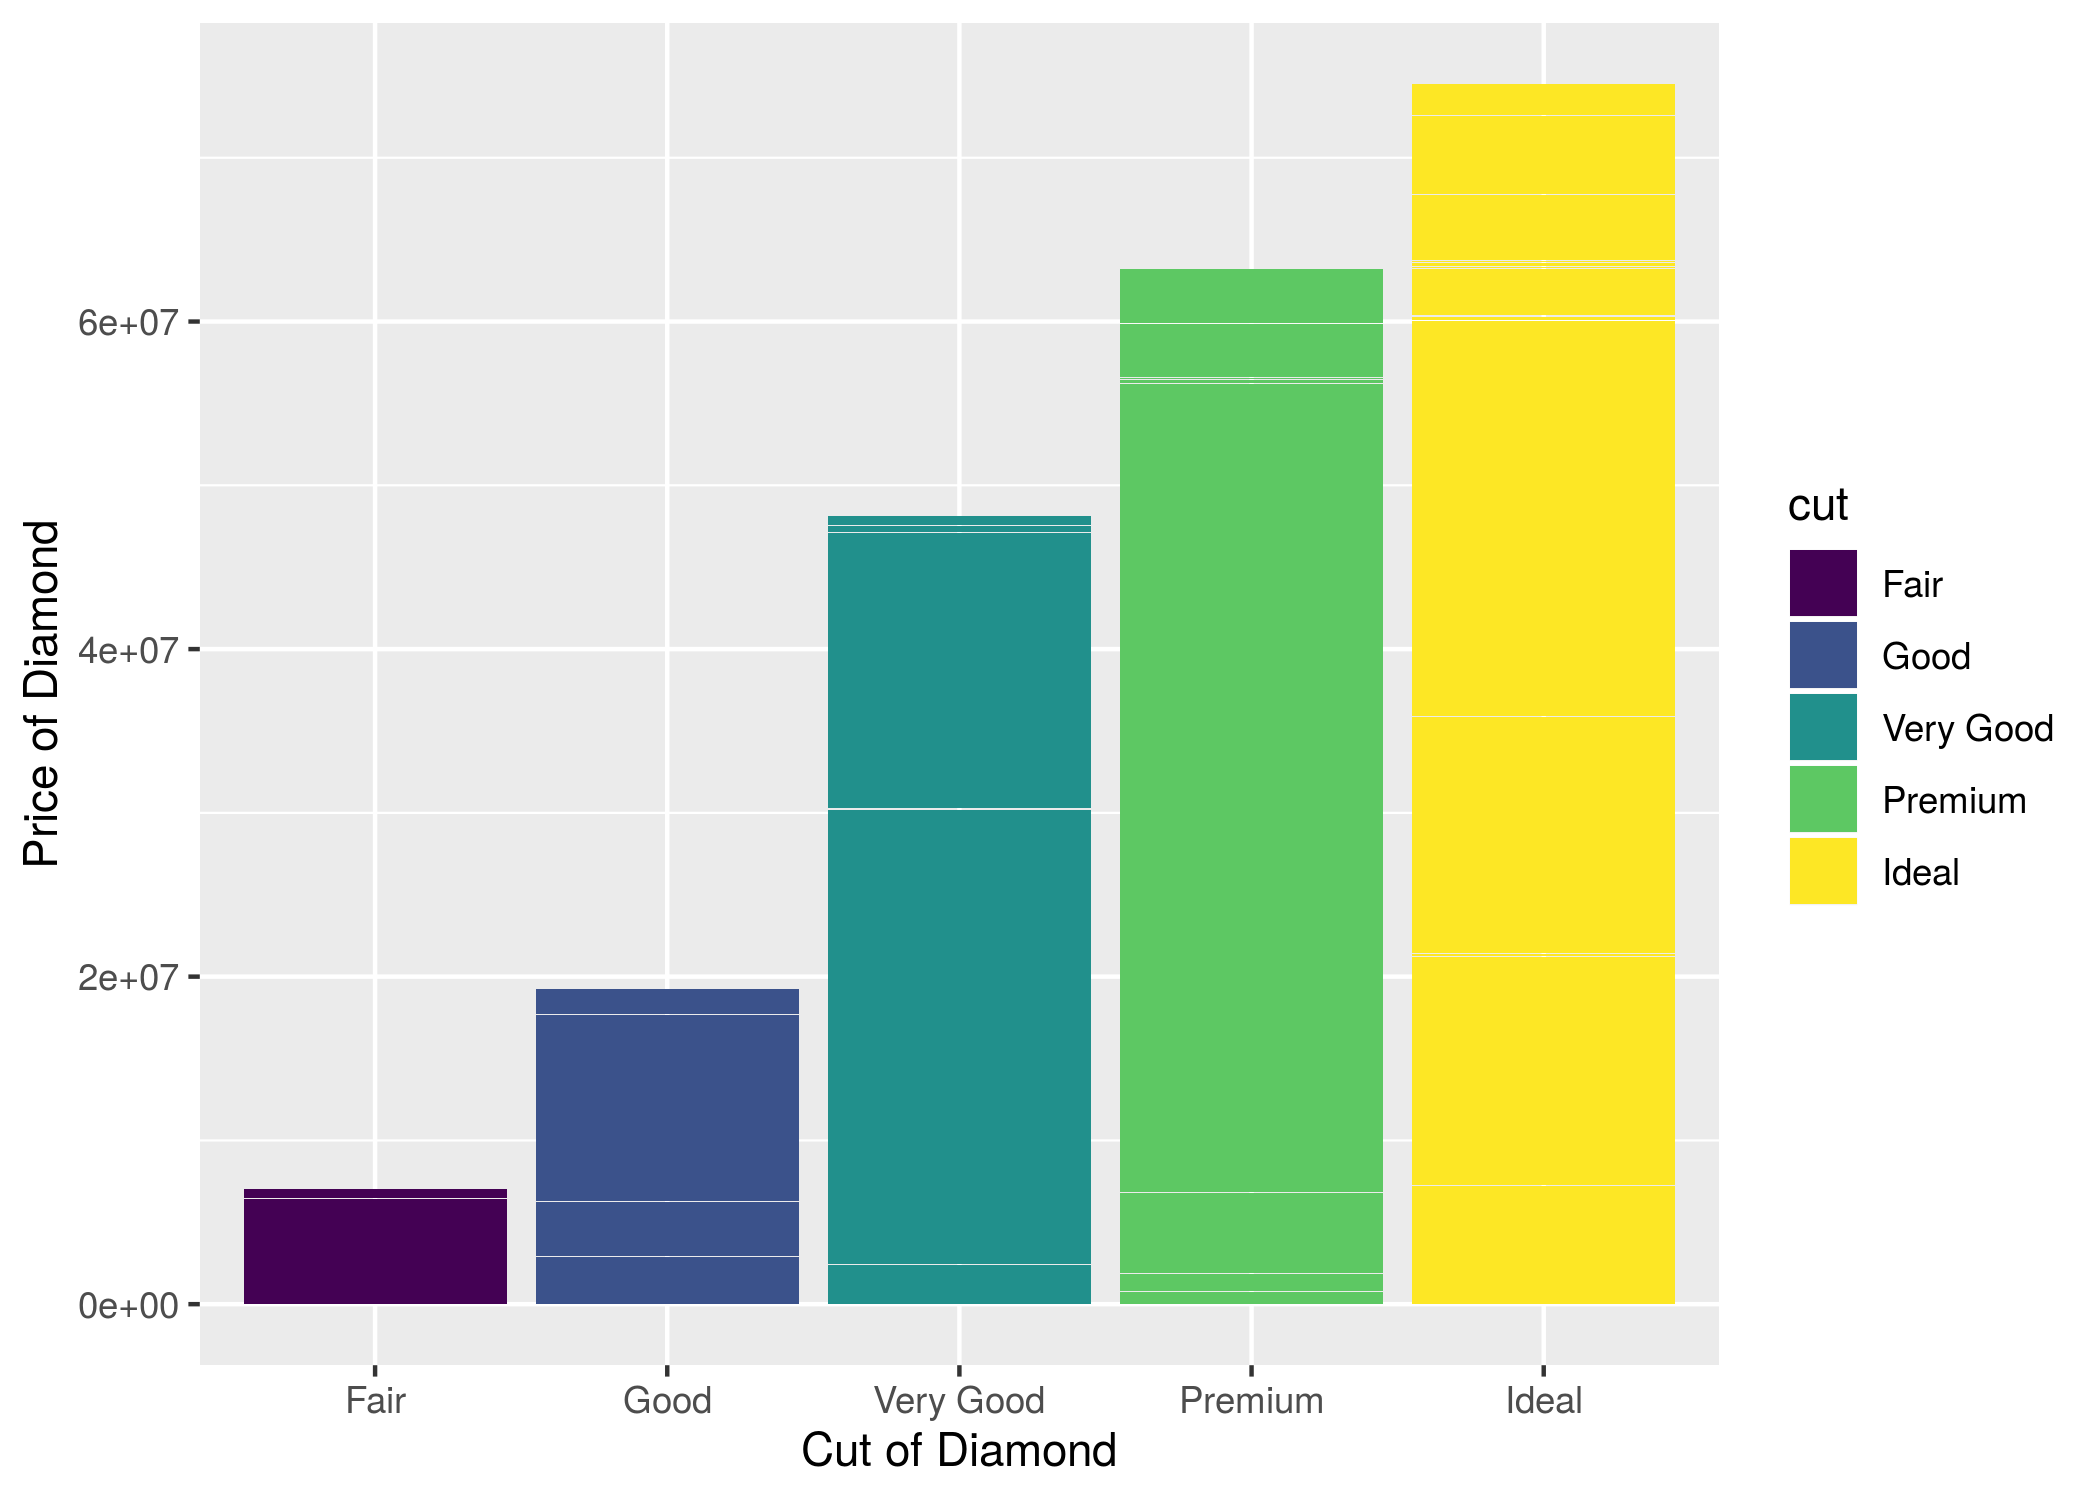
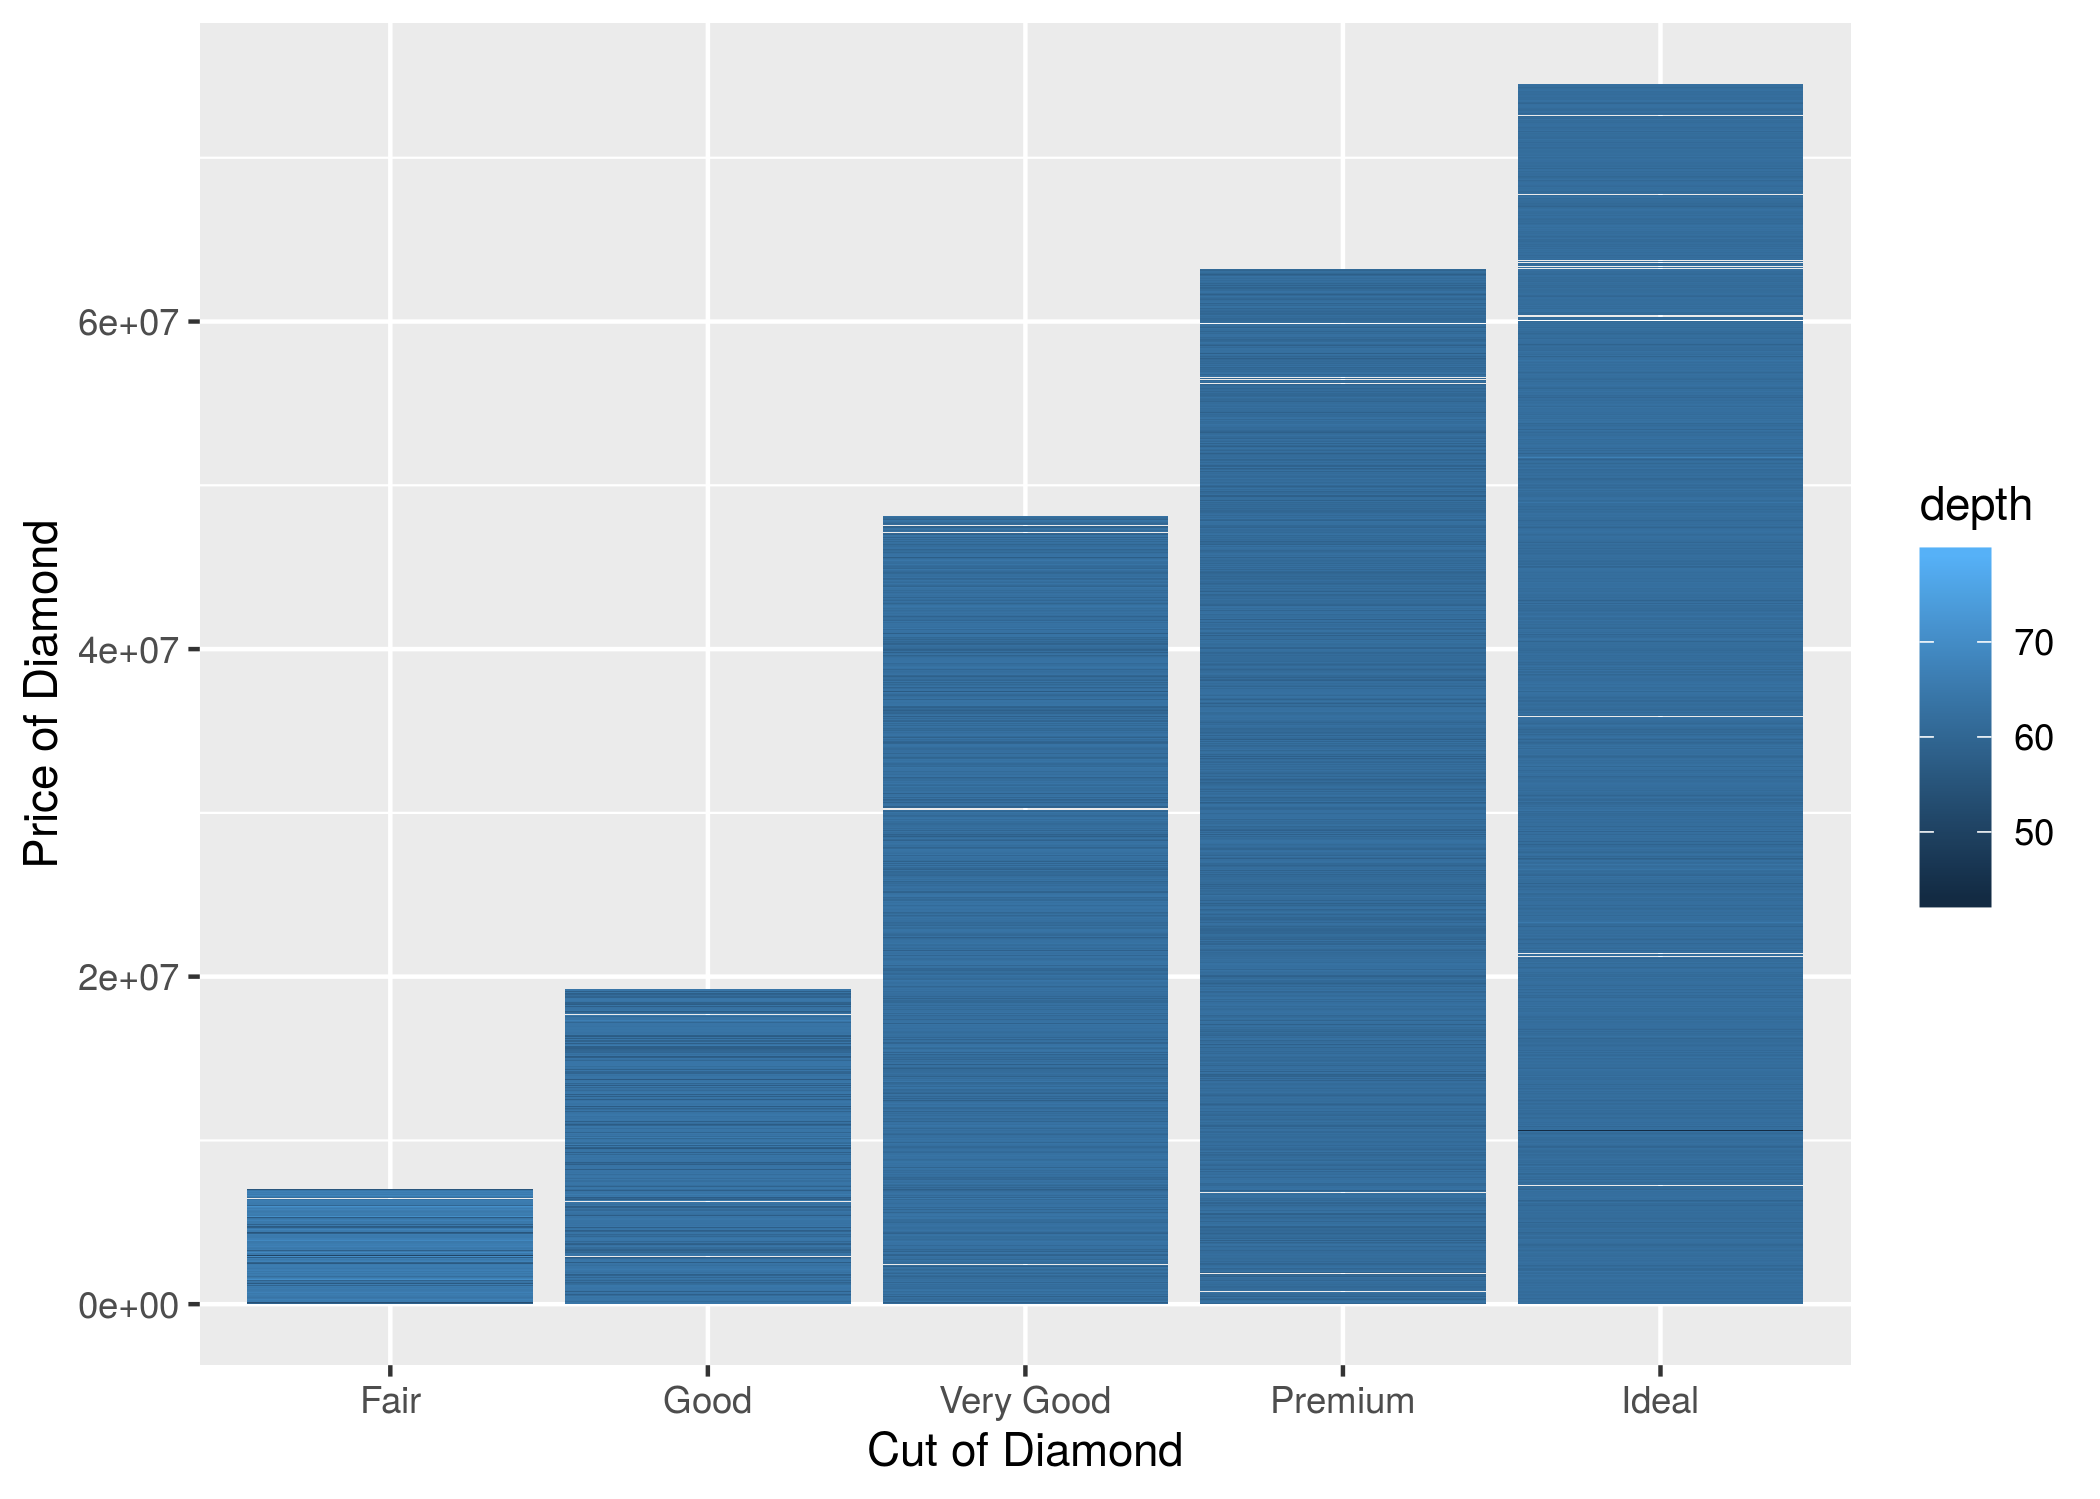
Filled the plot by depth instead of cut, making it blue

diff --git a/practice_plot_github.html b/practice_plot_github.html
@@ -384,7 +384,7 @@ summary {
 ##  9 0.22  Fair      E     VS2      65.1    61   337  3.87  3.78  2.49
 ## 10 0.23  Very Good H     VS1      59.4    61   338  4     4.05  2.39
 ## # … with 53,930 more rows</code></pre>
-<pre class="r"><code>ggplot(diamonds, aes(x=cut, y=price, fill=cut)) +
+<pre class="r"><code>ggplot(diamonds, aes(x=cut, y=price, fill=depth)) +
   geom_bar(stat = &quot;identity&quot;) +
   labs(x = &quot;Cut of Diamond&quot;, y = &quot;Price of Diamond&quot;) +
   theme_grey() -&gt; diamond_cost_and_cut
